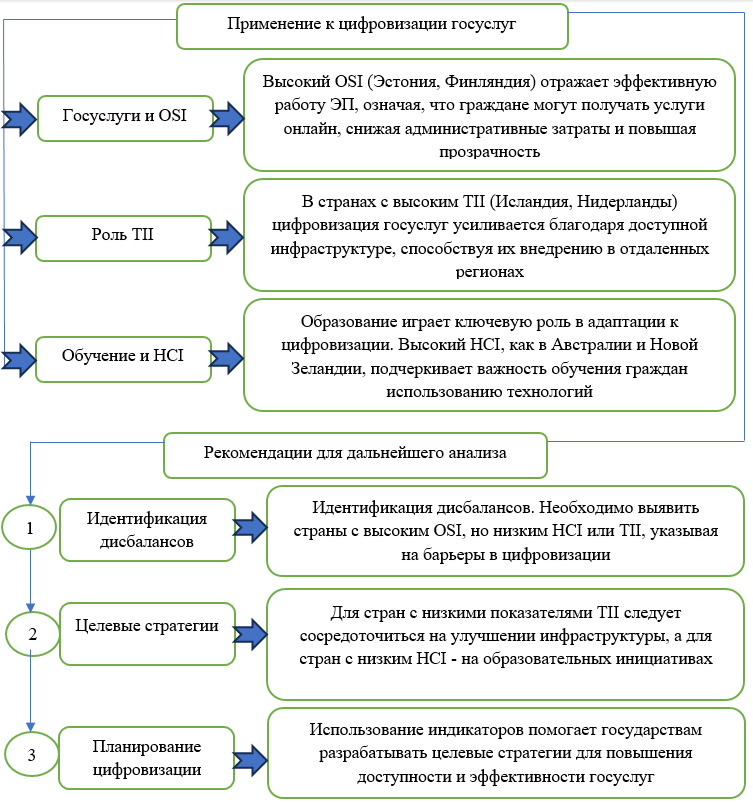
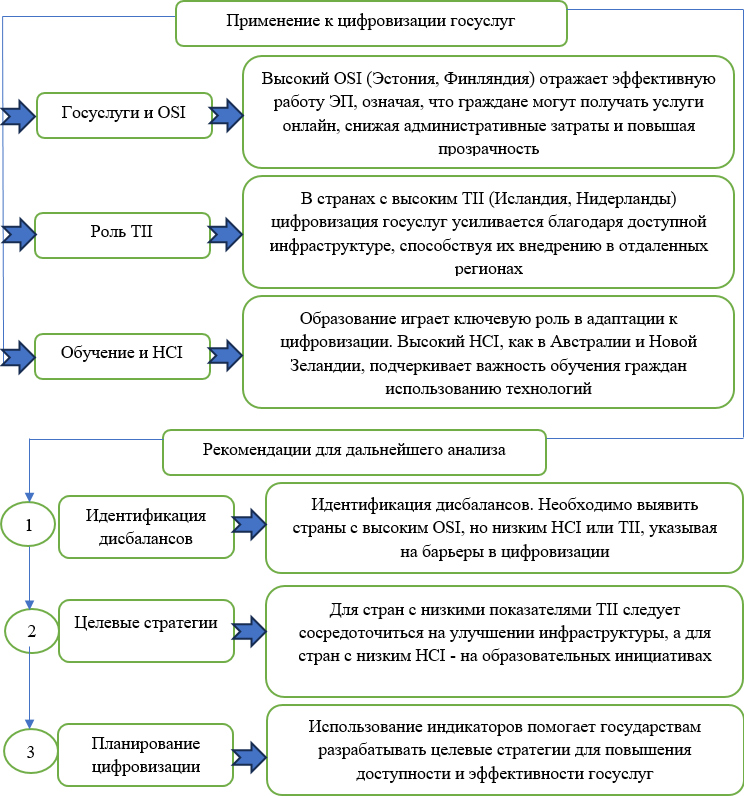
first pages edits

diff --git a/src/first_pages.tex b/src/first_pages.tex
@@ -5,7 +5,7 @@
 
 \vspace{1cm}
 
-\textbf{№ 4 (25) - 2024}
+\textbf{№ 1 (26) - 2025}
 \end{flushright}
 
 \vfill
@@ -43,24 +43,26 @@ Published 4 times a year
 
 \vfill
 
-Астана - 2024
+Астана - 2025
 
-Astana - 2024
+Astana - 2025
 \end{center}
 
 \pagebreak
 {\small
 \begin{center}
-\textbf{Бас редактор: С.Н.Байбеков}
+\textbf{Бас редактор: Байболова Л.К.}
 
-техн. ғыл. докторы, профессор «ҚазТБУ» АҚ Президент-ректоры
+техн. ғыл. докторы, профессор «ҚазТБУ» АҚ Ректоры
 
-\textbf{Бас редактордың орынбасары:} М.Ч.Төлтабаев
+\textbf{Бас редактордың орынбасары: Айбульдинов Е.К.} 
 
-техн. ғыл. докторы, профессор
+философия докторы (PhD), (Қазақстан)
 
 \textbf{Редакция алқасы:}
 \end{center}
+
+\textbf{Төлтабаев М.Ч.} х.ғ.д., профессор (Қазақстан)
 
 \textbf{Құлажанов Қ.С.} х.ғ.д., профессор, ҚР ҰҒА академигі (Қазақстан)
 
@@ -77,8 +79,6 @@ Astana - 2024
 \textbf{Шеров Т.К.} т.ғ.д., профессор (Қазақстан)
 
 \textbf{Mercade P.R.} философия докторы (PhD) (Испания)
-
-\textbf{Жылысбаева Р.О.} т.ғ.д., профессор (Қазақстан)
 
 \textbf{Кəкімов А.К.} т.ғ.д., профессор (Қазақстан)
 
@@ -98,8 +98,6 @@ Astana - 2024
 
 \textbf{Пешков В.} философия докторы (PhD), (Бельгия)
 
-\textbf{Айбульдинов Е.К.} философия докторы (PhD), (Қазақстан)
-
 \textbf{Искакова Ж.Б.} х.ғ.к., профессор м.а. (Қазақстан)
 
 \begin{center}
@@ -108,8 +106,7 @@ Astana - 2024
 
 \textbf{Меншіктенуші:} «Қазақ технология және бизнес университеті» АҚ
 
-ҚР Ақпарат және коммуникациялар министрлігінде 07. 02.2014 ж. № 14139-Ж
-тіркеу куәлігімен тіркелген.
+ҚР Ақпарат және коммуникациялар министрлігінде 07. 02.2014 ж. № 14139-Ж тіркеу куәлігімен тіркелген.
 
 \textbf{Екінші тіркеу:}11.02.2020 - № KZ46VPY00020253.
 
@@ -122,7 +119,7 @@ Astana - 2024
 технологиясы, тау-кен, мұнай-газ ісі), Экономика, бизнес және қызмет көрсету.
 
 \textbf{Редакцияның мекенжайы:} 010000, Қазақстан, Астана қ., Қайым
-Мұхамедханов к-сі, 37 «А», тел.:+7(7172)72-58-12(134), е-mail:
+Мұхамедханов к-сі, 37 «А», тел.: \\+7(7172)72-58-12 (134), е-mail:
 vestnik@kaztbu.kz
 \vfill
 \begin{center}
@@ -133,20 +130,22 @@ vestnik@kaztbu.kz
 \pagebreak
 {\small
 \begin{center}
-\textbf{Главный редактор: С.Н.Байбеков}
+\textbf{Главный редактор: Байболова Л.К.}
 
-д.т.н., профессор, Президент-ректор АО «КазУТБ»
+д.т.н., профессор, Ректор АО «КазУТБ»
 
-\textbf{Заместитель главного редактора: М.Ч. Тултабаев}
+\textbf{Заместитель главного редактора: Айбульдинов Е.К.}
 
-д.т.н., профессор
+доктор философии (РhD), (Казахстан)
 
 \textbf{Редакционная коллегия:}
 \end{center}
 
+\textbf{Тултабаев М.Ч.}. д.х.н., профессор (Казахстан)
+
 \textbf{Кулажанов К.С}. д.х.н., профессор, академик НАН РК (Казахстан)
 
-\textbf{Мансуров З.А}. д.х.н., профессор, академик НАН РК (Казахстан)
+\textbf{Мансуров З.А.}. д.х.н., профессор, академик НАН РК (Казахстан)
 
 \textbf{Фазылов С.Д.} д.х.н., профессор, академик НАН РК (Казахстан)
 
@@ -154,13 +153,11 @@ vestnik@kaztbu.kz
 
 \textbf{Изтаев А.И.} д.т.н., профессор, академик НАН РК (Казахстан)
 
-\textbf{Нурахметов Б.К.} д.т.н., профессор (Казахстан
+\textbf{Нурахметов Б.К.} д.т.н., профессор (Казахстан)
 
 \textbf{Шеров Т.К.} д.т.н., профессор (Казахстан)
 
 \textbf{Mercade P.R.} доктор философии (PhD) (Испания)
-
-\textbf{Жилисбаева Р.О.} д.т.н., профессор (Казахстан)
 
 \textbf{Какимов А.К.} д.т.н., профессор (Казахстан)
 
@@ -180,8 +177,6 @@ vestnik@kaztbu.kz
 
 \textbf{Пешков В.} доктор философии (PhD), (Бельгия)
 
-\textbf{Айбульдинов Е.К.} доктор философии (РhD), (Казахстан)
-
 \textbf{Искакова Ж.Б .} к.х.н., асс. профессор (Казахстан)
 
 \begin{center}
@@ -193,8 +188,7 @@ vestnik@kaztbu.kz
 \textbf{Регистрация:} Министерство информации и коммуникаций Республики
 Казахстан. Комитет Информации.
 
-\textbf{Дата и номер первичной постановки на учет:} № 14139-Ж от
-07.02.2014.
+\textbf{Дата и номер первичной постановки на учет:} № 14139-Ж от 07.02.2014.
 
 \textbf{Вторичная постановка на учет:} 11.02.2020 - № KZ46VPY00020253.
 
@@ -208,7 +202,7 @@ vestnik@kaztbu.kz
 услуги).
 
 \textbf{Адрес редакции:} 010000, г. Астана, Есильский район, ул.Кайыма
-Мухамедханова, 37 «А» тел.: (7172)72-58-12(134), е-mail: vestnik@kaztbu.kz
+Мухамедханова, 37 «А» тел.: \\+7(7172)72-58-12 (134), е-mail: vestnik@kaztbu.kz
 \vfill
 \begin{center}
 \textbf{\normalsize © Казахский университет технологии и бизнеса К.Кулажанова}
@@ -217,59 +211,46 @@ vestnik@kaztbu.kz
 \pagebreak
 {\small
 \begin{center}
-\textbf{Chief editor: S.N.Baybekov}
+\textbf{Chief editor: Baybolova L.K.}
 
-Doctor of Technical Sciences, Professor, «President-rector of JSC
-KazUTB»
+Doctor of Technical Sciences, Professor, «Rector of JSC KazUTB»
 
-\textbf{Deputy editor: M.Ch.Tultabaev}
+\textbf{Deputy editor: Aibuldinov Ye.K.}
 
-Doctor of Technical Sciences\emph{, Professor}
+Doctor of Philosophy (PhD), (Kazakhstan)
 
 \textbf{Editorial board:}
 \end{center}
 
-\textbf{Kulazhanov K. S.} Doctor of Chemistry Sciences, Academician NAS
-RK (Kazakhstan)
+\textbf{Tultabaev M.Ch.} Doctor of Technical Sciences, Professor (Kazakhstan)
 
-\textbf{Mansurov Z. A.} Doctor of Chemistry Sciences, Academician NAS RK
-(Kazakhstan)
+\textbf{Kulazhanov K. S.} Doctor of Chemistry Sciences, Academician NAS RK (Kazakhstan)
 
-\textbf{Fazylov S.D.} Doctor of Chemistry Sciences, Academician NAS RK
-(Kazakhstan)
+\textbf{Mansurov Z. A.} Doctor of Chemistry Sciences, Academician NAS RK (Kazakhstan)
 
-\textbf{Kulazhanov T.K.} Doctor of Technical Sciences, Academician NAS
-RK (Kazakhstan)
+\textbf{Fazylov S.D.} Doctor of Chemistry Sciences, Academician NAS RK (Kazakhstan)
 
-\textbf{Iztayev A.I.} Doctor of Technical Sciences, Academician NAS RK
-(Kazakhstan)
+\textbf{Kulazhanov T.K.} Doctor of Technical Sciences, Academician NAS RK (Kazakhstan)
 
-\textbf{Nurakhmetov B.K.} Doctor of Technical Sciences, Professor
-(Kazakhstan)
+\textbf{Iztayev A.I.} Doctor of Technical Sciences, Academician NAS RK (Kazakhstan)
 
-\textbf{Sherov T.K.} Doctor of Technical Sciences, Professor
-(Kazakhstan)
+\textbf{Nurakhmetov B.K.} Doctor of Technical Sciences, Professor (Kazakhstan)
+
+\textbf{Sherov T.K.} Doctor of Technical Sciences, Professor (Kazakhstan)
 
 \textbf{Mercade P.R.} Doctor of Philosophy (PhD) (Spain)
 
-\textbf{Zhilisbayeva R.O.} Doctor of Technical Sciences, Professor
-(Kazakhstan)
+\textbf{Kakimov A.K.} Doctor of Technical Sciences, Professor (Kazakhstan)
 
-\textbf{Kakimov A.K.} Doctor of Technical Sciences, Professor
-(Kazakhstan)
+\textbf{Uzakov Ya.M.} Doctor of Technical Sciences, Professor (Kazakhstan)
 
-\textbf{Uzakov Ya.M.} Doctor of Technical Sciences, Professor
-(Kazakhstan)
-
-\textbf{Dоdayev K.O.} Doctor of Technical Sciences, Professor
-(Uzbekistan)
+\textbf{Dоdayev K.O.} Doctor of Technical Sciences, Professor (Uzbekistan)
 
 \textbf{Kuznetsov O.L.} Doctor of Technical Sciences, Professor (Russia)
 
 \textbf{Mymrin V. A.} Doctor of Technical Sciences, Professor (Brazil)
 
-\textbf{Matkarimov B.T.} Doctor of Technical Sciences, Professor
-(Kazakhstan)
+\textbf{Matkarimov B.T.} Doctor of Technical Sciences, Professor (Kazakhstan)
 
 \textbf{Mukhamediyev B.} Doctor of Economics, Professor (Kazakhstan)
 
@@ -277,23 +258,18 @@ RK (Kazakhstan)
 
 \textbf{Peshkov V.} Doctor of Philosophy (PhD) (Belgium)
 
-\textbf{Aibuldinov Ye.K.} Doctor of Philosophy (PhD), (Kazakhstan)
-
 \textbf{Iskakova J.B.} Candidate of Chemical Sciences, ass.Professor
 (Kazakhstan)
 
 \begin{center}
-\textbf{Responsible editor, Candidate of Physical and Mathematical
-Sciences -M.K.Ospanova}
+\textbf{Responsible editor, Candidate of Physical and Mathematical Sciences - M.K.Ospanova}
 \end{center}
 
 \textbf{Owner:} JSC «Kazakh University of technology and business».
 
-\textbf{Registration:} Ministry of information and communications of the
-Republic of Kazakhstan. Committee of Information.
+\textbf{Registration:} Ministry of information and communications of the Republic of Kazakhstan. Committee of \\Information.
 
-\textbf{Date and number of initial registration:} 14139-Z from
-07.02.2014.
+\textbf{Date and number of initial registration:} 14139-Z from 07.02.2014.
 
 \textbf{Secondary registration}: 11.02.2020- № KZ46VPY00020253.
 
@@ -302,11 +278,11 @@ Republic of Kazakhstan. Committee of Information.
 \textbf{ISSN:} 2708- 4132, \textbf{ISSN (Online):} 2663-1830.
 
 \textbf{Thematic direction:} Information and communication and chemical
-technologies, Manufacturing and manufacturing industries (food
+technologies, Manufacturing and \\manufacturing industries (food
 technology, mining, oil and gas business), Economy, business and services.
 
 \textbf{Address of edition:} 010000, Astana city, Esil district, Kaiym
-Mukhamedkhanov Street, 37 «A», tel.: (7172)72-58-12 (134),
+Mukhamedkhanov Street, 37 «A», tel.: \\+7(7172)72-58-12 (134),
 е-mail: vestnik@kaztbu.kz
 \vfill
 \begin{center}

diff --git a/src/ekon/015.tex b/src/ekon/015.tex
@@ -1,3 +1,4 @@
+%% DONE
 \id{МРНТИ 82.33.13}{https://doi.org/10.58805/kazutb.v.1.26-750}
 
 \begin{articleheader}
@@ -415,10 +416,12 @@ EGDI, где:
 населения использовать цифровые инструменты (рисунок 1).
 \end{multicols}
 
-
-{\bfseries Рис. 1 - Применение госуслуг к цифровизации}
-
-\emph{Примечание. Составлено автором}
+\begin{figure}[H]
+	\centering
+	\includegraphics[width=0.82\textwidth]{media/ekon/image8}
+	\caption*{Рис. 1 - Применение госуслуг к цифровизации}
+	\caption*{\normalfont \emph{Примечание. Составлено автором}}
+\end{figure}
 
 \begin{multicols}{2}
 Все 15 стран, относящихся к рейтинговому классу и указанные на рисунке 1
@@ -477,25 +480,6 @@ TII                                                                      & 0,921
 \end{tblr}
 \end{table}
 
-\begin{multicols}{2}
-\emph{2. Корреляционный анализ}
-
-Для анализа корреляции между компонентами используем формулу корреляции
-Пирсона:
-
-\begin{equation}
-    r_{XY} = \frac{\sum (Xi - X)(Yi - Y)}{\sqrt{\sum (Xi - X)^2 \sum (Yi - Y)^2}},
-\end{equation}
-
-где:
-
-хi, уi - значения сравниваемых индикаторов
-
-xˉ,yˉ- средние значения индикаторов.
-
-Результаты корреляционного анализа представлены в таблице 3.
-\end{multicols}
-
 \begin{table}[H]
 \caption*{Таблица 3 - Результаты корреляционного анализа}
 \centering
@@ -514,6 +498,23 @@ HCI и TII                                                                & 0,80
 \end{table}
 
 \begin{multicols}{2}
+\emph{2. Корреляционный анализ}
+
+Для анализа корреляции между компонентами используем формулу корреляции
+Пирсона:
+
+\begin{equation}
+    r_{XY} = \frac{\sum (Xi - X)(Yi - Y)}{\sqrt{\sum (Xi - X)^2 \sum (Yi - Y)^2}},
+\end{equation}
+
+где:
+
+хi, уi - значения сравниваемых индикаторов
+
+xˉ,yˉ- средние значения индикаторов.
+
+Результаты корреляционного анализа представлены в таблице 3.
+
 Анализ взаимосвязей показал следующие результаты:
 
 1) OSI и HCI (r = 0,751) - умеренно сильная положительная корреляция
@@ -555,11 +556,12 @@ HCI и TII                                                                & 0,80
 правительства среди стран СНГ (таблица 4) {[}1{]}.
 \end{multicols}
 
-\begin{table}[H]
-\caption*{Таблица 4 - Индекс развития электронного правительства (EGDI) среди стран СНГ в 2022 году}
-\centering
-\begin{tblr}{
-  colspec = {X[2] X[1] X[1] X[1] X[1] X[1] X[1] X[1]},
+\begin{longtblr}[
+  label = none,
+  entry = none,
+  caption = {\bfseries Таблица 4 - Индекс развития электронного правительства (EGDI) среди стран СНГ в 2022 году},
+]{
+  colspec = {X[1.7] X[1] X[1] X[1] X[1] X[1] X[1] X[1.5]},
   row{even} = {c},
   row{1} = {c},
   row{3} = {c},
@@ -584,8 +586,7 @@ HCI и TII                                                                & 0,80
 Узбекистан                                                      & Высокий EGDI       & 69    & 0,7265    & 0,744    & 0,6575   & 0,7778   & доход ниже среднего \\
 Среднее значение                                                &                    &       & 0,70061   & 0,632    & 0,639    & 0,827    &                     \\
 \textit{Примечание. Составлено автором на основе источника [1]} &                    &       &           &          &          &          &                     
-\end{tblr}
-\end{table}
+\end{longtblr}
 
 \begin{multicols}{2}
 

diff --git a/src/main.tex b/src/main.tex
@@ -12,7 +12,7 @@
 \pagenumbering{gobble}
 
 % First pages (e.g., title, abstract, etc.)
-%% \input{src/first_pages.tex}
+\input{src/first_pages.tex}
 
 % Ensure TOC starts on the right-hand page
 %% \cleardoublepage
@@ -85,7 +85,7 @@
 %% \input{src/ekon/012.tex}
 %% \input{src/ekon/013.tex}
 %% \input{src/ekon/014.tex}
-\input{src/ekon/015.tex}
+%% \input{src/ekon/015.tex}
 
 % Last page (e.g., appendix, references, etc.)
 %% \input{src/last_page.tex}
